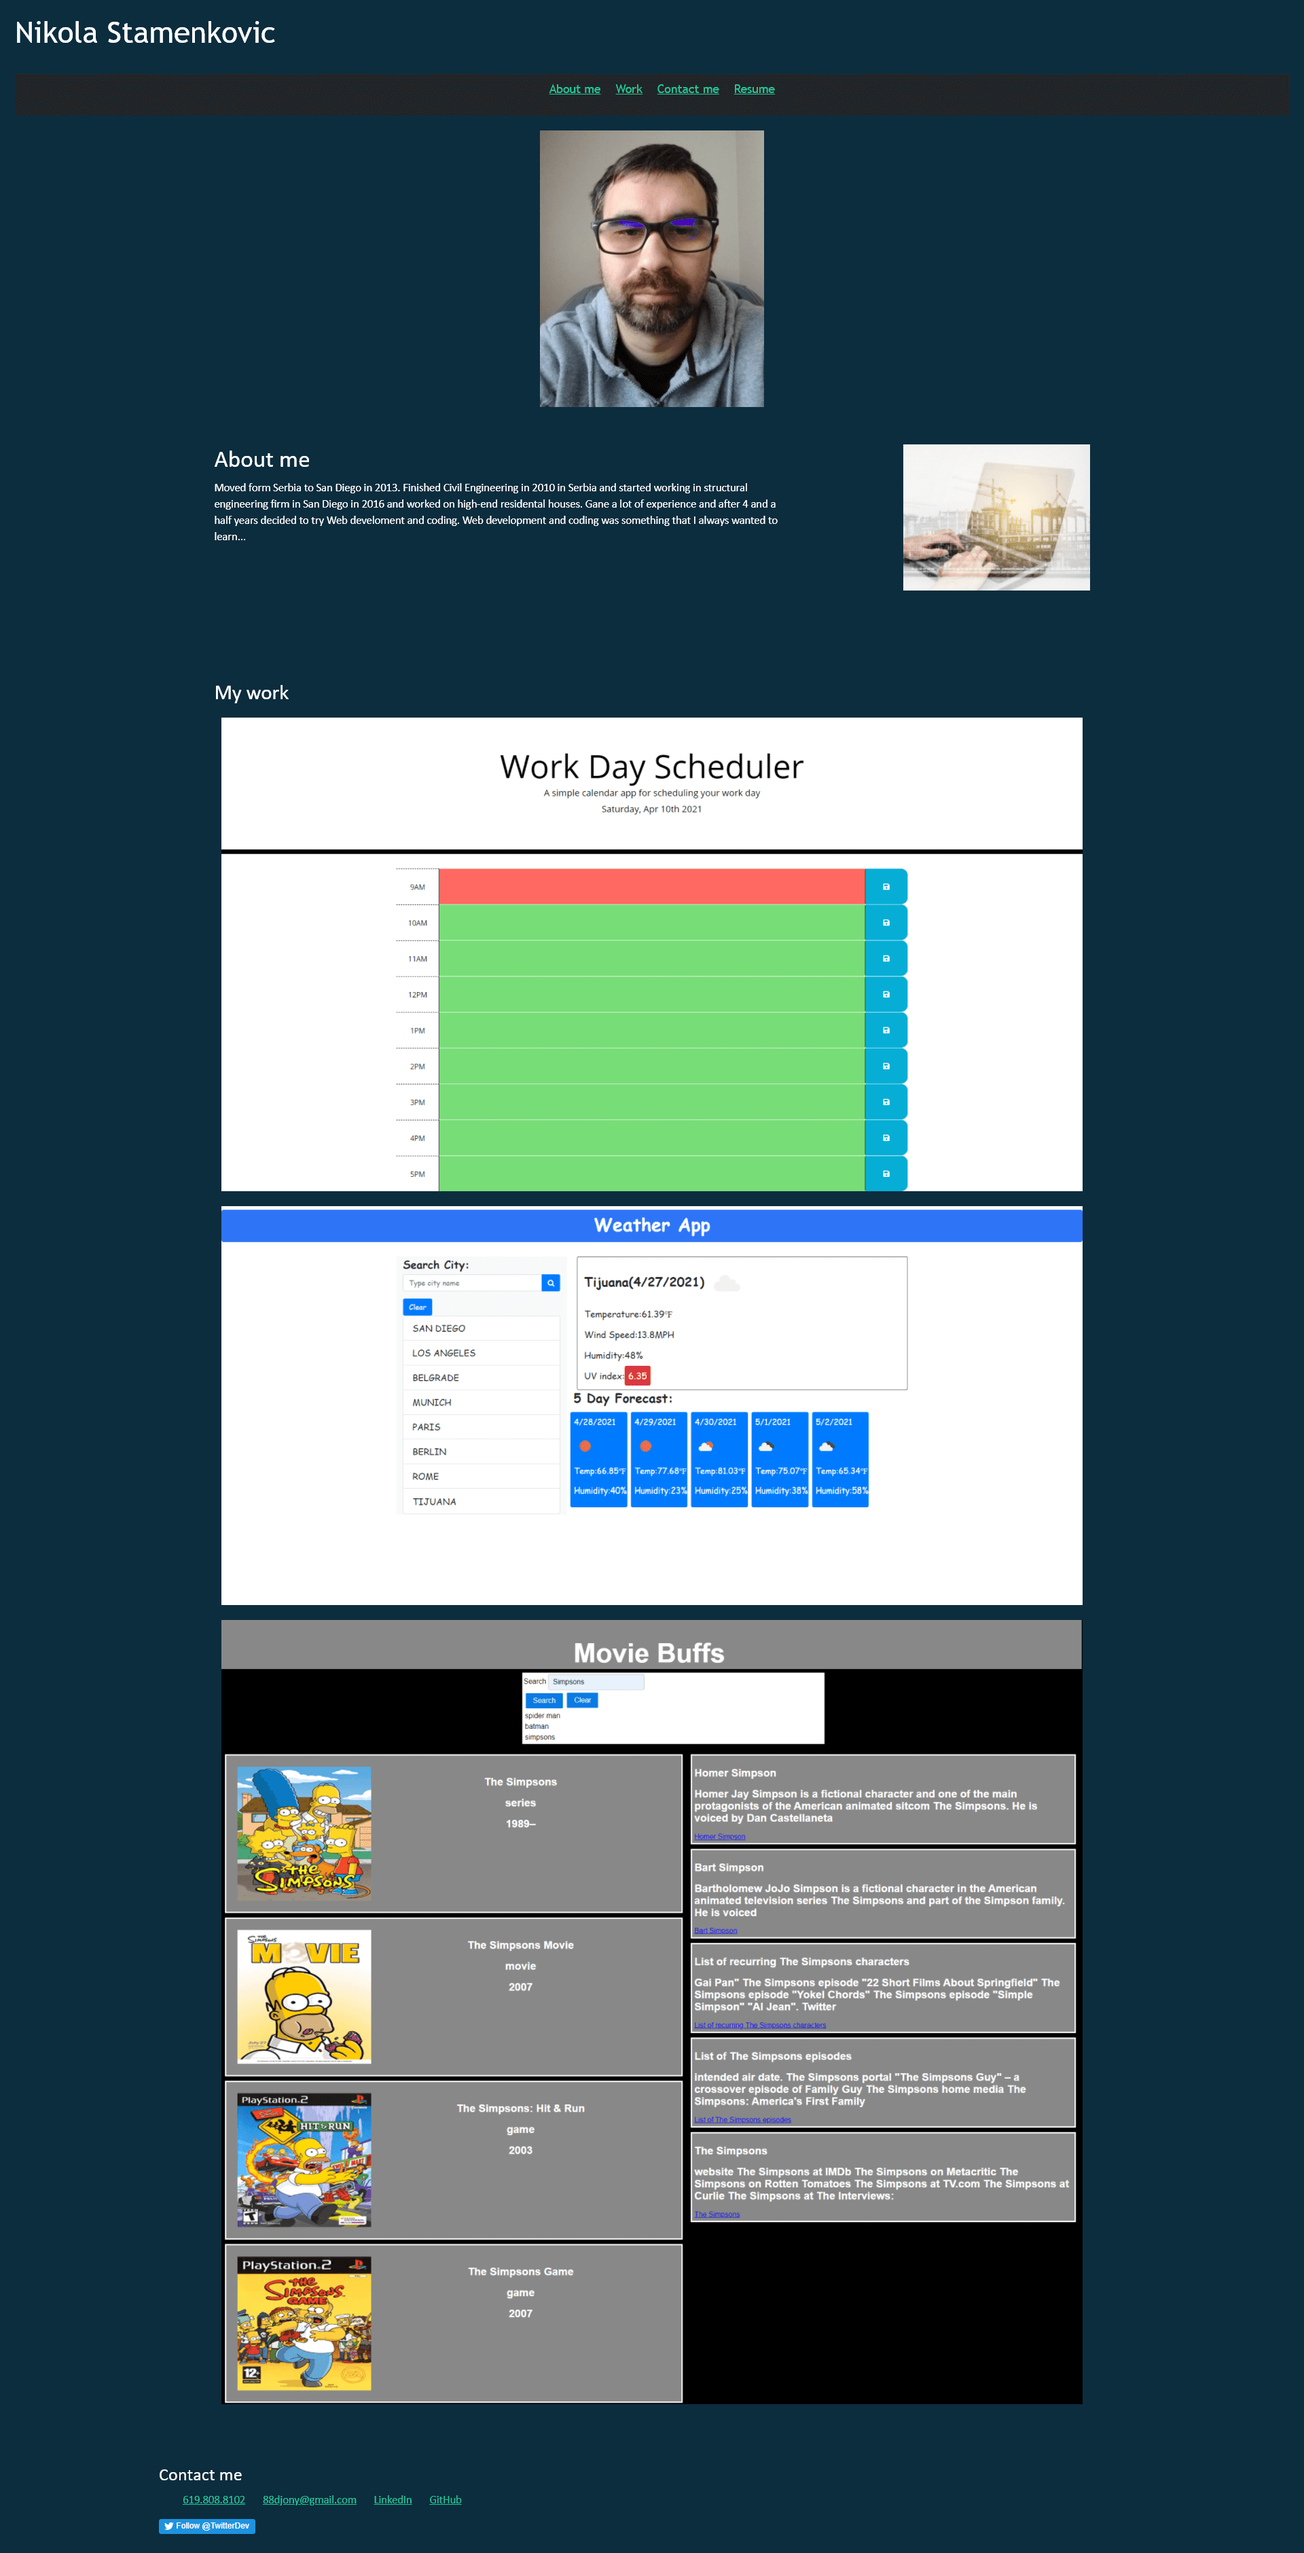
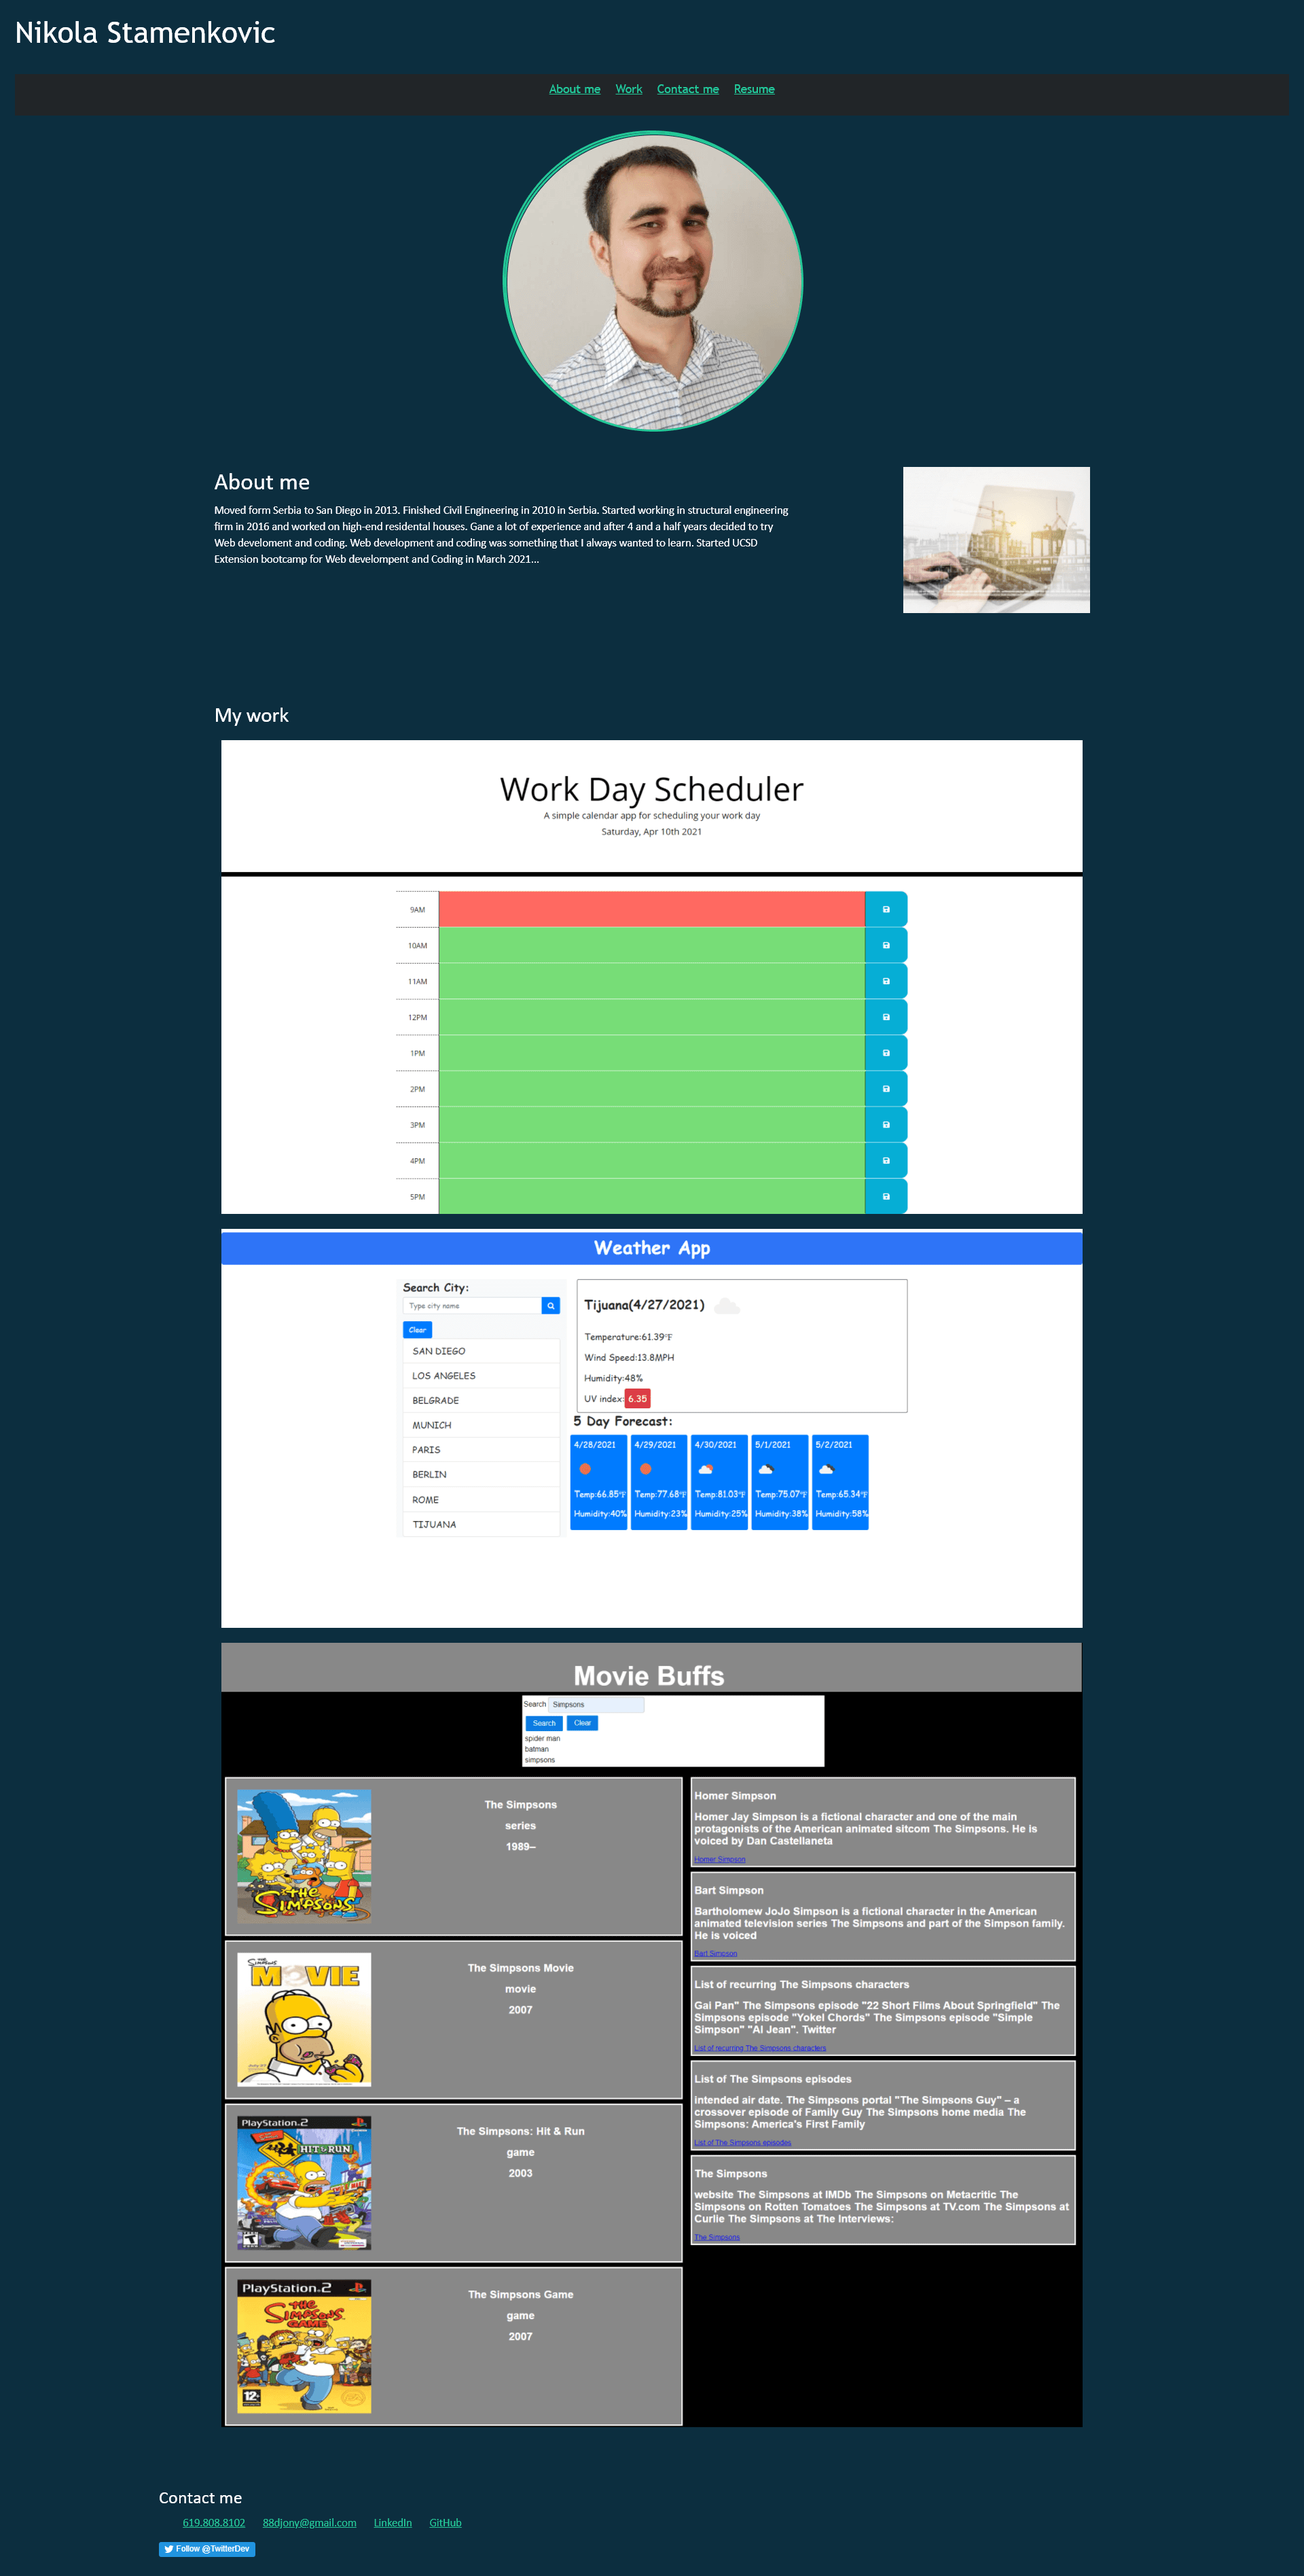
added new profile picture, styling for PP, add new screenshot

diff --git a/index.html b/index.html
@@ -35,7 +35,7 @@
 <!-- Adding my picture to the page. -->
     <main class="container">
         <section class="ME">
-            <img src=".\assets\images\nikola.jpg" class="ME">
+            <img src=".\assets\images\Me_4.jpg" class="ME">
         </section>
 <!-- Adding first contend to the page with picure and paragrafh about me. -->
 <section>
@@ -44,7 +44,7 @@
             <div class="bio">
                 <h2>About me</h2>
                 <p>
-                    Moved form Serbia to San Diego in 2013. Finished Civil Engineering in 2010 in Serbia and started working in structural engineering firm in San Diego in 2016 and worked on high-end residental houses. Gane a lot of experience and after 4 and a half years decided to try Web develoment and coding. Web development and coding was something that I always wanted to learn... 
+                    Moved form Serbia to San Diego in 2013. Finished Civil Engineering in 2010 in Serbia. Started working in structural engineering firm in 2016 and worked on high-end residental houses. Gane a lot of experience and after 4 and a half years decided to try Web develoment and coding. Web development and coding was something that I always wanted to learn. Started UCSD Extension bootcamp for Web develompent and Coding in March 2021...
                 </p>
             </div>  
             <img src=".\assets\images\civil_engneer.jpg" class="aboutMeImage" />

diff --git a/assets/css/style.css b/assets/css/style.css
@@ -51,8 +51,10 @@ a {
 }
 /* Adding picure of me. :) */
 .ME {
-    height: 370px;
-    width: 300px;
+    border:3px solid #24c997;
+    border-radius: 50%;
+    height: 400px;
+    width: 400px;
     margin-bottom: 25px;
     background-image: url("../images/nikola.jpg");
     background-size: cover;

diff --git a/README.md b/README.md
@@ -16,9 +16,10 @@ Requirement:
 HTML
 
 * Added bootstrap.
-* Updated Work samples with on click on screenshot takes you to a GitHub deployed webpage.
-* Updated contact with LinkedIn profile page, GitHub profile page and Twitter profile page.
+* Added PDF resume which downloads when you click on Resume in navigation bar.
 * Added Work day schedule app, Weather app and Group Project (Movie Buffs) to my work section.
+* Updated Work samples with "on click" function on screenshot takes you to a GitHub deployed webpage.
+* Updated contact with LinkedIn profile page, GitHub profile page and Twitter profile page.
 * Added LinkedIn, GitHub and Twitter links into contact me section.
 * Added Twitter script.
 * Removed footer.
@@ -33,4 +34,6 @@ CSS
 * Removing footer styling.
 * Adding media query for mobile responsiveness.
 
-![Preview](assets\images\screenshot.png)
+
+
+![Preview](.\assets\images\screenshot.png)
